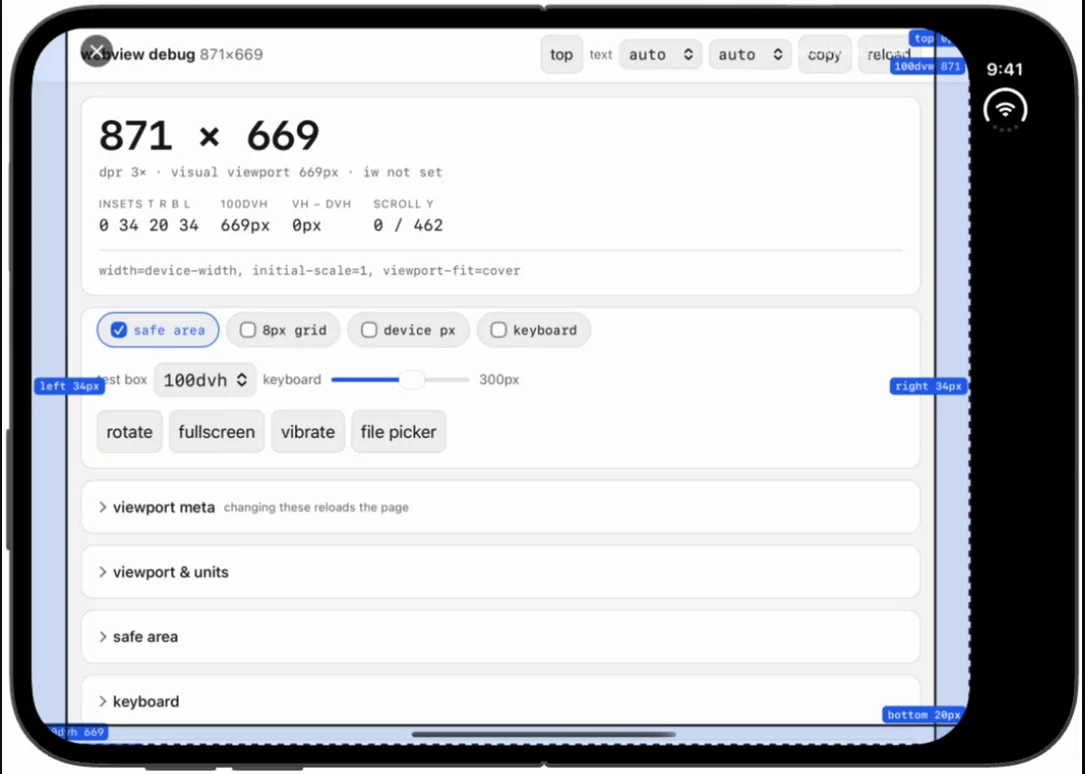
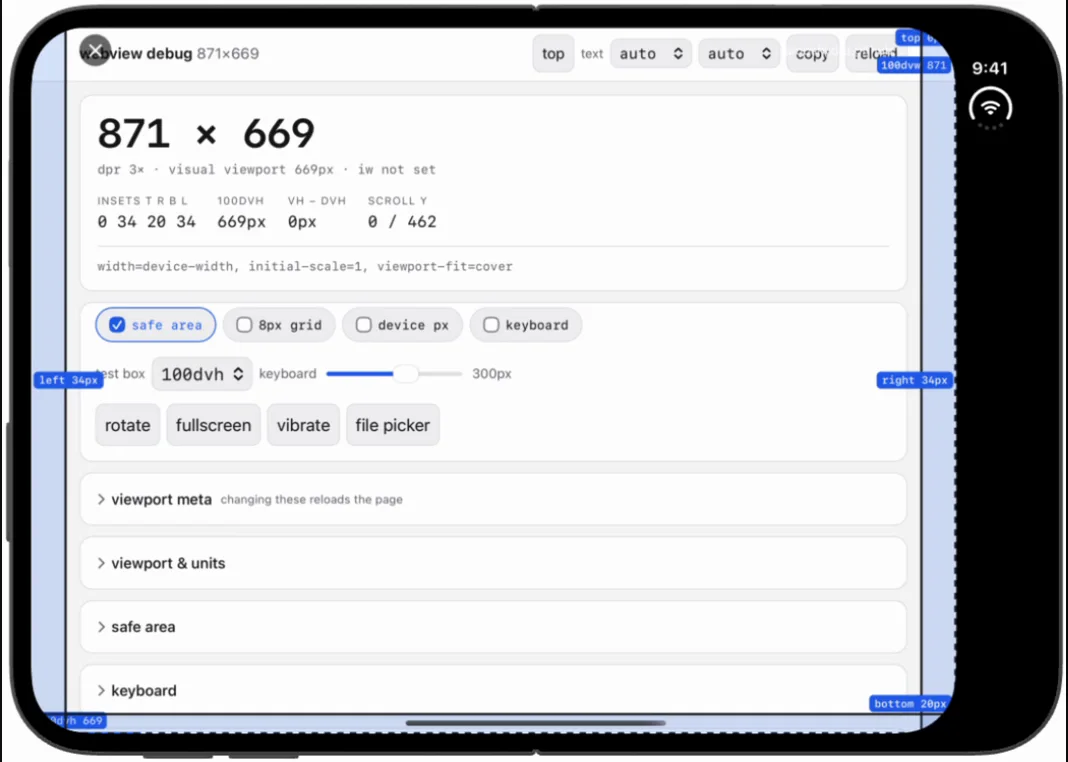
fix(post): the 27.1 inner landscape figure was Slide Over, not full screen
The frame behind duo-inner-landscape-sdk27-1.webp showed the app in a
floating window with the home screen behind it, reporting 469 x 669, with
the recorder's mouse cursor in shot. Its device bounding box was a
plausible 1007x775 -- a smaller unfolded device -- so the pose and aspect
checks passed and the defect survived two rounds of review.

The check that catches it is coverage: for each column of the chassis, is
most of it bright page? Full screen reads 92-95%, Slide Over well under
half. Requiring coverage above 0.85 rejects it, and the replacement at
t=20.5 reports the full 951 x 669.

Re-checked all six figures with both that and a chassis-aspect test
against the real panel geometry -- inner panel 2670x1878, so about 1.40
landscape and 0.70 portrait once the bezel is included; outer panel about
1.38 and 0.73. The other five were sound and are re-encoded unchanged
except for pairing.

Also measured the 27.0 letterbox rather than asserting it. Scaling the
white page to its self-reported 871pt and subtracting both bezel widths
leaves a rail of 81.4pt, against the 80pt that 951 - 871 predicts. That
is what rules out the three things it could otherwise be: a Slide Over
window, the folded-away inner screen, or a crop running past the display.

Replacements: 27.1 inner landscape t=32.5 (Slide Over) -> t=20.5. Chassis
for the inner pairs now match exactly at 1064x762 and 764x1018, so the
rows need no padding.

diff --git a/content/posts/webview-safe-area-inset-override/AGENTS.md b/content/posts/webview-safe-area-inset-override/AGENTS.md
@@ -322,6 +322,28 @@ collapses to one representative. Three things it has to work around:
 Verify every picked frame by eye before encoding. Two of the first three rows were
 wrong in ways no size check caught: a mid-rotation frame, and a split view.
 
+**A third one got through twice: Slide Over.** The published 27.1 inner landscape
+figure was the app in a floating window with the home screen behind it, reading
+`469 × 669`, and it carried the mouse cursor. Its device bounding box was a
+perfectly plausible 1007x775 — a *smaller* unfolded device — so every size and
+aspect check passed. The tell is **coverage**: for each column of the chassis, ask
+whether most of it is bright page. Full screen reads 92–95%; Slide Over reads well
+under half. Require coverage above 0.85 before accepting a frame, and check the page
+self-reports the full panel (`951`, not `469`).
+
+**Confirm the device is unfolded from the chassis aspect.** The inner panel is
+2670x1878, so a flat unfolded Duo in landscape has a chassis aspect of about 1.40
+once the bezel is included; the outer panel gives about 1.38 landscape and 0.73
+portrait. A frame whose aspect is well off those is not the pose it is filed under.
+
+**Confirm the letterbox is real by measuring it, not by eyeballing the black.** On
+the 27.0 inner landscape frame, scaling the white page to its self-reported 871pt
+and subtracting the two bezel widths leaves a rail of **81.4pt** against the
+**80pt** that 951 − 871 predicts. That agreement is what rules out the three
+things it could otherwise be: a Slide Over window, the folded-away inner screen,
+or a crop that ran past the display. Do this once per figure rather than trusting
+that black means letterbox.
+
 **Grouping by page size is not enough — group by stillness.** Size-keyed grouping
 still returned a frame at t=26 that carried the recorder's mouse cursor, and two
 portrait poses where only one frame in five was upright. What actually works is
